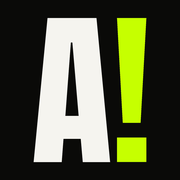
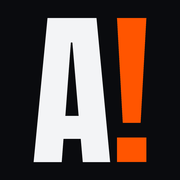
Atualiza ícones e título da página inicial

Changed region(s): [[0.6389, 0.0833, 0.8333, 0.6944], [0.6389, 0.75, 0.8333, 0.9167]]

diff --git a/index.html b/index.html
@@ -2,7 +2,8 @@
 <html lang="pt-BR">
   <head>
     <meta charset="UTF-8" />
-    <link rel="icon" type="image/svg+xml" href="/favicon.svg" />
+    <link rel="icon" type="image/svg+xml" href="/favicon.svg?v=2" />
+    <link rel="alternate icon" href="/favicon.ico?v=2" />
     <!--
       O `.ico` NÃO é redundância do `.svg` de cima.
 
@@ -28,7 +29,7 @@
       A home apresenta tanto a comunidade quanto a Arena. A medição disponível
       é experimental e não deve ser descrita como nota validada.
     -->
-    <title>Auê! — Arena e mural de arrotos</title>
+    <title>Auê! Grave seu arroto e entre na resenha</title>
 
     <meta name="theme-color" content="#0a0b0e" />
 
@@ -142,7 +143,7 @@
     <meta property="og:site_name" content="Auê" />
     <meta property="og:locale" content="pt_BR" />
     <meta property="og:url" content="https://aue.web.app/" />
-    <meta property="og:title" content="Auê! — Arena e mural de arrotos" />
+    <meta property="og:title" content="Auê! Grave seu arroto e entre na resenha" />
     <meta property="og:description" content="Grave seu arroto na Arena e confira os áudios e publicações da galera no mural do Auê." />
     <meta property="og:image" content="https://aue.web.app/og-image.png" />
     <meta property="og:image:width" content="1200" />
@@ -150,7 +151,7 @@
     <meta property="og:image:alt" content="Símbolo do Auê: uma bolha verde-limão com um ponto de exclamação vazado." />
 
     <meta name="twitter:card" content="summary_large_image" />
-    <meta name="twitter:title" content="Auê! — Arena e mural de arrotos" />
+    <meta name="twitter:title" content="Auê! Grave seu arroto e entre na resenha" />
     <meta name="twitter:description" content="Grave seu arroto na Arena e confira os áudios e publicações da galera no mural do Auê." />
     <meta name="twitter:image" content="https://aue.web.app/og-image.png" />
 
@@ -194,7 +195,7 @@
       verdade, mas ela depende do React ter montado.
     -->
     <noscript>
-      <h1>Auê! — Arena e mural de arrotos</h1>
+      <h1>Auê! Grave seu arroto e entre na resenha</h1>
       <p>
         Grave seu arroto no microfone direto no navegador, confira a medição experimental e compartilhe nos grupos de WhatsApp.
       </p>

diff --git a/src/qualidade/seo-publico.test.ts b/src/qualidade/seo-publico.test.ts
@@ -345,8 +345,8 @@ describe('SEO público — Arena e mural de arrotos', () => {
     const titulo = /<title>([^<]+)<\/title>/.exec(html)?.[1] ?? '';
     const descricao = /<meta name="description" content="([^"]+)"/.exec(html)?.[1] ?? '';
 
-    expect(titulo.toLowerCase()).toContain('mural de arrotos');
-    expect(titulo.toLowerCase()).toContain('arena');
+    expect(titulo.toLowerCase()).toContain('grave seu arroto');
+    expect(titulo.toLowerCase()).toContain('resenha');
     expect(descricao.toLowerCase()).toContain('mural');
     expect(descricao.toLowerCase()).toContain('medição experimental');
   });
@@ -355,8 +355,8 @@ describe('SEO público — Arena e mural de arrotos', () => {
     // O card é o que chega no grupo do WhatsApp. Se ele descrever só a
     // mecânica, o link continua parecendo qualquer coisa.
     const html = home();
-    expect(metaDe(html, 'og:title')?.toLowerCase()).toContain('mural');
-    expect(metaDe(html, 'twitter:title')?.toLowerCase()).toContain('mural');
+    expect(metaDe(html, 'og:title')?.toLowerCase()).toContain('arroto');
+    expect(metaDe(html, 'twitter:title')?.toLowerCase()).toContain('arroto');
     expect(metaDe(html, 'og:description')).toContain('Grave seu arroto na Arena');
     expect(metaDe(html, 'twitter:description')).toBe(metaDe(html, 'og:description'));
   });

diff --git a/paginas/duelo.html b/paginas/duelo.html
@@ -8,7 +8,8 @@
     <meta name="description" content="Você recebeu um desafio no Auê. Grave sua resposta para descobrir o confronto." />
     <meta name="theme-color" content="#0a0a08" />
     <title>Você recebeu um desafio — Auê!</title>
-    <link rel="icon" type="image/svg+xml" href="/favicon.svg" />
+    <link rel="icon" type="image/svg+xml" href="/favicon.svg?v=2" />
+    <link rel="alternate icon" href="/favicon.ico?v=2" />
     <link rel="preload" href="/fonts/anton-latin.woff2" as="font" type="font/woff2" crossorigin />
     <link rel="preload" href="/fonts/archivo-latin.woff2" as="font" type="font/woff2" crossorigin />
     <meta property="og:type" content="website" />

diff --git a/paginas/comunidades.html b/paginas/comunidades.html
@@ -2,7 +2,8 @@
 <html lang="pt-BR">
   <head>
     <meta charset="UTF-8" />
-    <link rel="icon" type="image/svg+xml" href="/favicon.svg" />
+    <link rel="icon" type="image/svg+xml" href="/favicon.svg?v=2" />
+    <link rel="alternate icon" href="/favicon.ico?v=2" />
     <meta name="viewport" content="width=device-width, initial-scale=1.0, viewport-fit=cover" />
     <title>Comunidades de arrotadores — Auê!</title>
     <meta name="theme-color" content="#0a0a08" />

diff --git a/paginas/grupos.html b/paginas/grupos.html
@@ -2,7 +2,8 @@
 <html lang="pt-BR">
   <head>
     <meta charset="UTF-8" />
-    <link rel="icon" type="image/svg+xml" href="/favicon.svg" />
+    <link rel="icon" type="image/svg+xml" href="/favicon.svg?v=2" />
+    <link rel="alternate icon" href="/favicon.ico?v=2" />
     <meta name="viewport" content="width=device-width, initial-scale=1.0, viewport-fit=cover" />
     <title>Grupos externos de arroto: WhatsApp, Telegram e TikTok — Auê!</title>
 

diff --git a/paginas/tipos-de-arroto.html b/paginas/tipos-de-arroto.html
@@ -2,7 +2,8 @@
 <html lang="pt-BR">
   <head>
     <meta charset="UTF-8" />
-    <link rel="icon" type="image/svg+xml" href="/favicon.svg" />
+    <link rel="icon" type="image/svg+xml" href="/favicon.svg?v=2" />
+    <link rel="alternate icon" href="/favicon.ico?v=2" />
     <meta name="viewport" content="width=device-width, initial-scale=1.0, viewport-fit=cover" />
     <title>Tipos de arroto: os 5 estilos que a Arena vai avaliar — Auê!</title>
 

diff --git a/paginas/como-arrotar.html b/paginas/como-arrotar.html
@@ -2,7 +2,8 @@
 <html lang="pt-BR">
   <head>
     <meta charset="UTF-8" />
-    <link rel="icon" type="image/svg+xml" href="/favicon.svg" />
+    <link rel="icon" type="image/svg+xml" href="/favicon.svg?v=2" />
+    <link rel="alternate icon" href="/favicon.ico?v=2" />
     <meta name="viewport" content="width=device-width, initial-scale=1.0, viewport-fit=cover" />
     <title>Como arrotar de propósito, alto, longo e o alfabeto | Auê</title>
 

diff --git a/paginas/como-jogar.html b/paginas/como-jogar.html
@@ -2,7 +2,8 @@
 <html lang="pt-BR">
   <head>
     <meta charset="UTF-8" />
-    <link rel="icon" type="image/svg+xml" href="/favicon.svg" />
+    <link rel="icon" type="image/svg+xml" href="/favicon.svg?v=2" />
+    <link rel="alternate icon" href="/favicon.ico?v=2" />
     <meta name="viewport" content="width=device-width, initial-scale=1.0, viewport-fit=cover" />
     <title>Como funciona o Auê — Arena e mural de arrotos</title>
 

diff --git a/paginas/ranking-de-arrotos.html b/paginas/ranking-de-arrotos.html
@@ -2,7 +2,8 @@
 <html lang="pt-BR">
   <head>
     <meta charset="UTF-8" />
-    <link rel="icon" type="image/svg+xml" href="/favicon.svg" />
+    <link rel="icon" type="image/svg+xml" href="/favicon.svg?v=2" />
+    <link rel="alternate icon" href="/favicon.ico?v=2" />
     <meta name="viewport" content="width=device-width, initial-scale=1.0, viewport-fit=cover" />
     <title>Ranking de arrotos e Arena experimental | Auê!</title>
 

diff --git a/paginas/privacidade.html b/paginas/privacidade.html
@@ -2,7 +2,8 @@
 <html lang="pt-BR">
   <head>
     <meta charset="UTF-8" />
-    <link rel="icon" type="image/svg+xml" href="/favicon.svg" />
+    <link rel="icon" type="image/svg+xml" href="/favicon.svg?v=2" />
+    <link rel="alternate icon" href="/favicon.ico?v=2" />
     <meta name="viewport" content="width=device-width, initial-scale=1.0, viewport-fit=cover" />
     <title>Política de privacidade — Auê</title>
 

diff --git a/paginas/termos.html b/paginas/termos.html
@@ -2,7 +2,8 @@
 <html lang="pt-BR">
   <head>
     <meta charset="UTF-8" />
-    <link rel="icon" type="image/svg+xml" href="/favicon.svg" />
+    <link rel="icon" type="image/svg+xml" href="/favicon.svg?v=2" />
+    <link rel="alternate icon" href="/favicon.ico?v=2" />
     <meta name="viewport" content="width=device-width, initial-scale=1.0, viewport-fit=cover" />
     <title>Termos de uso — Auê</title>
 

diff --git a/docs/design/design-system/system/scripts/build-favicons.py b/docs/design/design-system/system/scripts/build-favicons.py
@@ -34,7 +34,7 @@ except Exception:
     pass
 
 # ── Paleta registrada — DESIGN.md §1.1 / §1.2 ────────────────────────────────
-BG = (0x0A, 0x0A, 0x08)   # Preto Carvão
+BG = (0x0A, 0x0B, 0x0E)   # Fundo da marca atual
 FG = (0xC6, 0xFF, 0x00)   # Verde Ácido Elétrico
 
 SS = 8            # supersampling
@@ -334,8 +334,8 @@ POLY_EX_DOT = [
     (dx+55, 1), (dx+55, 299), (dx+413, 299), (dx+413, 1)
 ]
 
-FG_A = (0xF5, 0xF4, 0xEF)
-FG_EX = (0xC6, 0xFF, 0x00)
+FG_A = (0xF3, 0xF4, 0xF6)
+FG_EX = (0xFF, 0x55, 0x00)
 
 def render_brutalist(width, height, coverage=0.88, bg=BG, fg_a=FG_A, fg_ex=FG_EX, transparent=False):
     W, H = width * SS, height * SS
@@ -423,7 +423,7 @@ def build_conjunto():
     render_brutalist(1200, 630, 0.60).save(p('og-image.png'), optimize=True)
 
     # ── vetoriais ────────────────────────────────────────────────────────────
-    emit_brutalist_svg(p('favicon.svg'), coverage=0.88, bg='#0a0a08', fg_a='#f5f4ef', fg_ex='#c6ff00')
+    emit_brutalist_svg(p('favicon.svg'), coverage=0.88, bg='#0a0b0e', fg_a='#f3f4f6', fg_ex='#ff5500')
     emit_brutalist_svg(p('safari-pinned-tab.svg'), coverage=0.88, bg=None, fg_a='#000000', fg_ex='#000000')
 
     print('conjunto brutalista gerado com sucesso')
